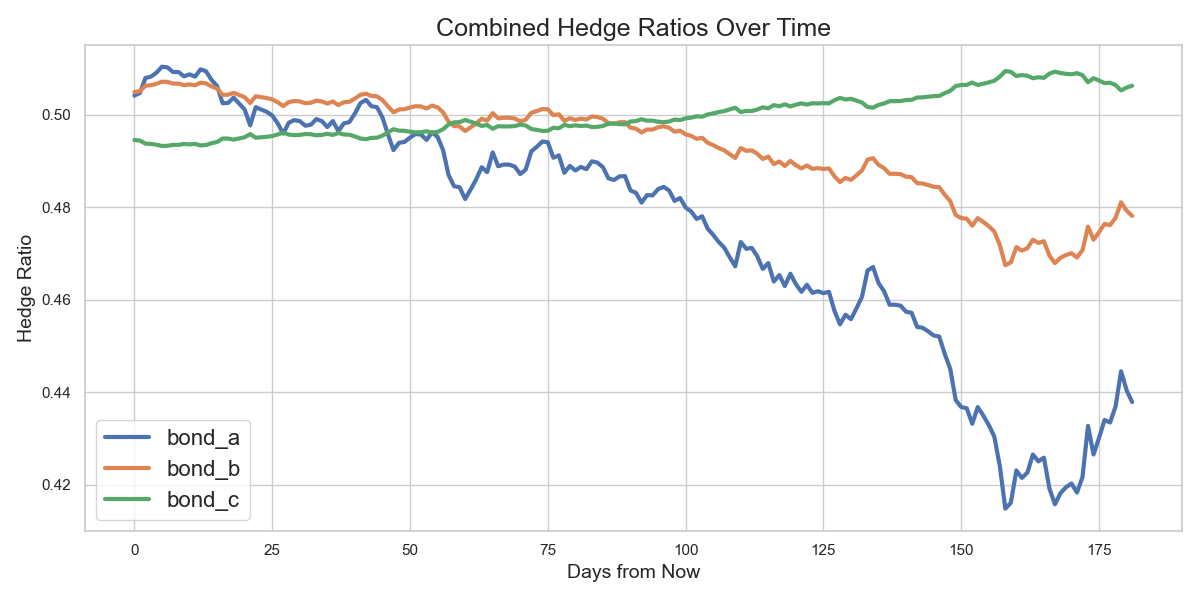
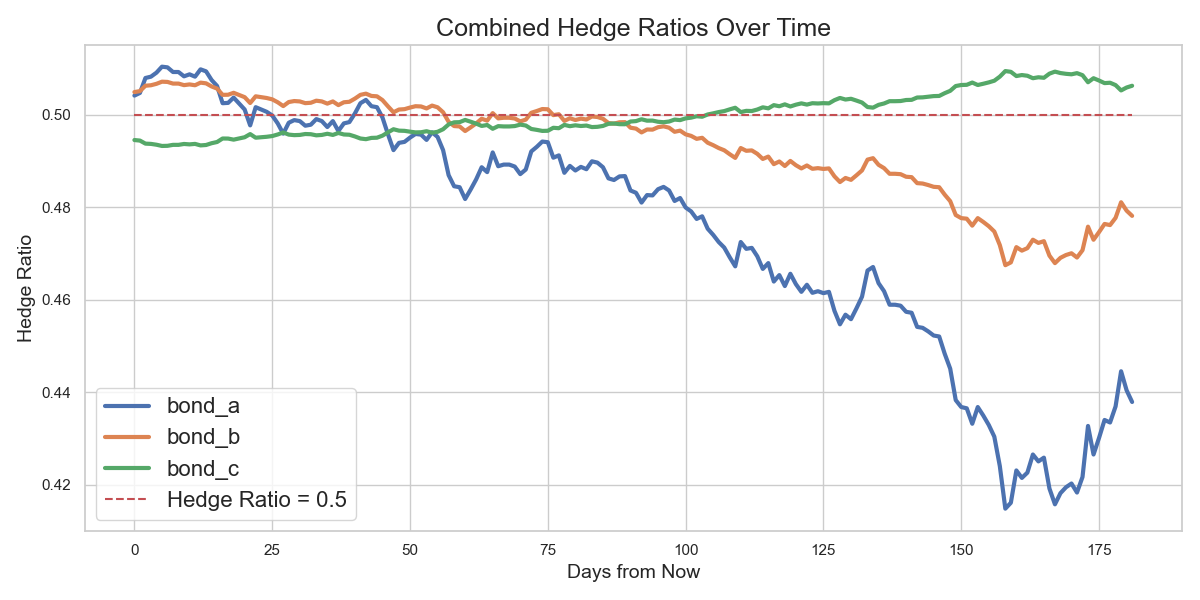
final commit

Changed region(s): [[0.0925, 0.72, 0.3083, 0.87], [0.0925, 0.63, 0.2775, 0.69]]

diff --git a/pensionfund/utils/plotting.py b/pensionfund/utils/plotting.py
@@ -60,6 +60,14 @@ class Plotting:
         plt.figure(figsize=(12, 6))
         for column in df.columns:
             plt.plot(df.index, df[column], label=column, linewidth=3)
+        plt.hlines(
+            0.5,
+            df.index.min(),
+            df.index.max(),
+            colors="r",
+            linestyles="--",
+            label="Hedge Ratio = 0.5",
+        )
         plt.title(title, fontsize=18)
         plt.xlabel(xlabel, fontsize=14)
         plt.ylabel(ylabel, fontsize=14)
